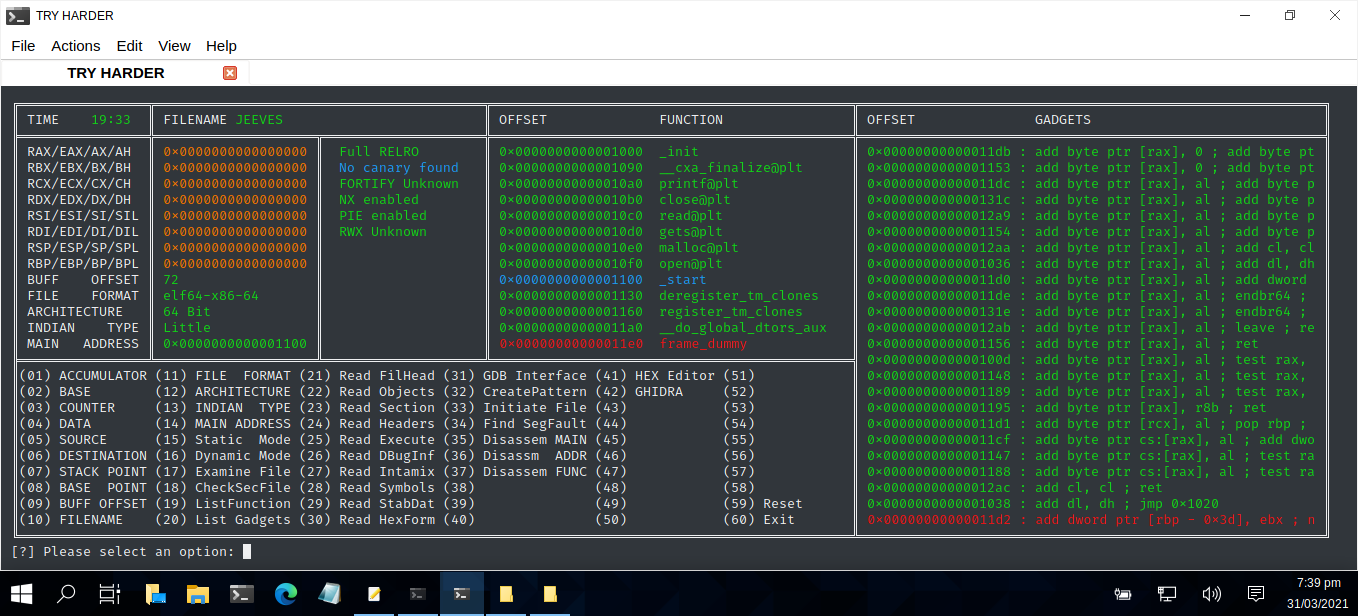
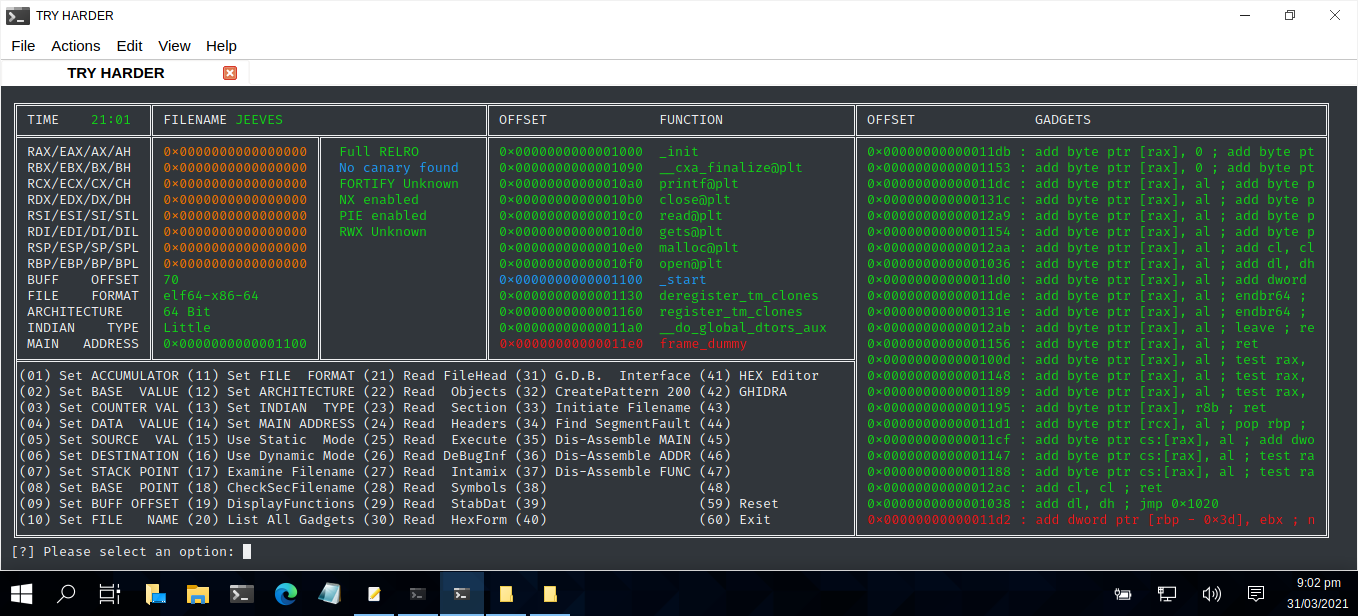
Try harder

Changed region(s): [[0.0309, 0.586, 0.6186, 0.8636], [0.9588, 0.9253, 0.9897, 0.9562], [0.0619, 0.1851, 0.0928, 0.2159]]

diff --git a/BinMaster.py b/BinMaster.py
@@ -394,16 +394,16 @@ def dispMenu():
    return
    
 def options():
-   print('\u2551' + "(01) ACCUMULATOR (11) FILE  FORMAT (21) Read FilHead (31) GDB Interface (41) HEX Editor (51)            " + '\u2551', end=' '); print(colored(GADD[14],colour6), end=' '); print('\u2551')
-   print('\u2551' + "(02) BASE        (12) ARCHITECTURE (22) Read Objects (32) CreatePattern (42) GHIDRA     (52)            " + '\u2551', end=' '); print(colored(GADD[15],colour6), end=' '); print('\u2551')
-   print('\u2551' + "(03) COUNTER     (13) INDIAN  TYPE (23) Read Section (33) Initiate File (43)            (53)            " + '\u2551', end=' '); print(colored(GADD[16],colour6), end=' '); print('\u2551')  
-   print('\u2551' + "(04) DATA        (14) MAIN ADDRESS (24) Read Headers (34) Find SegFault (44)            (54)            " + '\u2551', end=' '); print(colored(GADD[17],colour6), end=' '); print('\u2551')
-   print('\u2551' + "(05) SOURCE      (15) Static  Mode (25) Read Execute (35) Disassem MAIN (45)            (55)            " + '\u2551', end=' '); print(colored(GADD[18],colour6), end=' '); print('\u2551')
-   print('\u2551' + "(06) DESTINATION (16) Dynamic Mode (26) Read DBugInf (36) Disassm  ADDR (46)            (56)            " + '\u2551', end=' '); print(colored(GADD[19],colour6), end=' '); print('\u2551')
-   print('\u2551' + "(07) STACK POINT (17) Examine File (27) Read Intamix (37) Disassem FUNC (47)            (57)            " + '\u2551', end=' '); print(colored(GADD[20],colour6), end=' '); print('\u2551')
-   print('\u2551' + "(08) BASE  POINT (18) CheckSecFile (28) Read Symbols (38)               (48)            (58)            " + '\u2551', end=' '); print(colored(GADD[21],colour6), end=' '); print('\u2551')
-   print('\u2551' + "(09) BUFF OFFSET (19) ListFunction (29) Read StabDat (39)               (49)            (59) Reset      " + '\u2551', end=' '); print(colored(GADD[22],colour6), end=' '); print('\u2551')
-   print('\u2551' + "(10) FILENAME    (20) List Gadgets (30) Read HexForm (40)               (50)            (60) Exit       " + '\u2551', end=' ')
+   print('\u2551' + "(01) Set ACCUMULATOR (11) Set FILE  FORMAT (21) Read FileHead (31) G.D.B.  Interface (41) HEX Editor    " + '\u2551', end=' '); print(colored(GADD[14],colour6), end=' '); print('\u2551')
+   print('\u2551' + "(02) Set BASE  VALUE (12) Set ARCHITECTURE (22) Read  Objects (32) CreatePattern 200 (42) GHIDRA        " + '\u2551', end=' '); print(colored(GADD[15],colour6), end=' '); print('\u2551')
+   print('\u2551' + "(03) Set COUNTER VAL (13) Set INDIAN  TYPE (23) Read  Section (33) Initiate Filename (43)               " + '\u2551', end=' '); print(colored(GADD[16],colour6), end=' '); print('\u2551')  
+   print('\u2551' + "(04) Set DATA  VALUE (14) Set MAIN ADDRESS (24) Read  Headers (34) Find SegmentFault (44)               " + '\u2551', end=' '); print(colored(GADD[17],colour6), end=' '); print('\u2551')
+   print('\u2551' + "(05) Set SOURCE  VAL (15) Use Static  Mode (25) Read  Execute (35) Dis-Assemble MAIN (45)               " + '\u2551', end=' '); print(colored(GADD[18],colour6), end=' '); print('\u2551')
+   print('\u2551' + "(06) Set DESTINATION (16) Use Dynamic Mode (26) Read DeBugInf (36) Dis-Assemble ADDR (46)               " + '\u2551', end=' '); print(colored(GADD[19],colour6), end=' '); print('\u2551')
+   print('\u2551' + "(07) Set STACK POINT (17) Examine Filename (27) Read  Intamix (37) Dis-Assemble FUNC (47)               " + '\u2551', end=' '); print(colored(GADD[20],colour6), end=' '); print('\u2551')
+   print('\u2551' + "(08) Set BASE  POINT (18) CheckSecFilename (28) Read  Symbols (38)                   (48)               " + '\u2551', end=' '); print(colored(GADD[21],colour6), end=' '); print('\u2551')
+   print('\u2551' + "(09) Set BUFF OFFSET (19) DisplayFunctions (29) Read  StabDat (39)                   (59) Reset         " + '\u2551', end=' '); print(colored(GADD[22],colour6), end=' '); print('\u2551')
+   print('\u2551' + "(10) Set FILE   NAME (20) List All Gadgets (30) Read  HexForm (40)                   (60) Exit          " + '\u2551', end=' ')
    if GADD[24] != "":
       print(colored(GADD[23],colour0), end=' '); print('\u2551')   
    else:

diff --git a/README.md b/README.md
@@ -21,7 +21,7 @@ Usage: python3 BinMaster.py
 
 | LANGUAGE  | FILENAME     | MD5 Hash                         | DESCRIPTION    | VERSION    |
 |------     |------        | -------                          | ------         | ----       |
-| python3   | BinMAster.py | 23aff77f8e279a6f4c19d5f30bb8f719 | Command Centre | Try Harder |
+| python3   | BinMAster.py | de52e578700e10d9504423a052c13daa | Command Centre | Try Harder |
 
 
 A python script file to forensically examine binary files for buffer-overflows.
